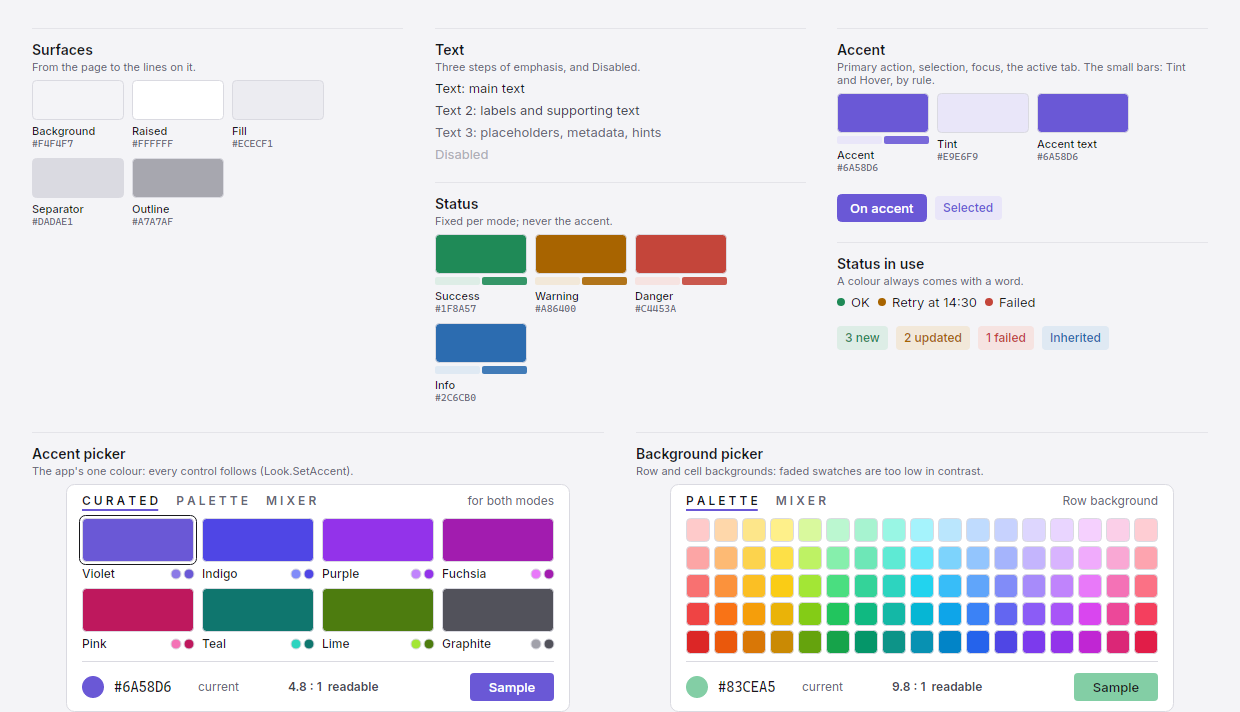
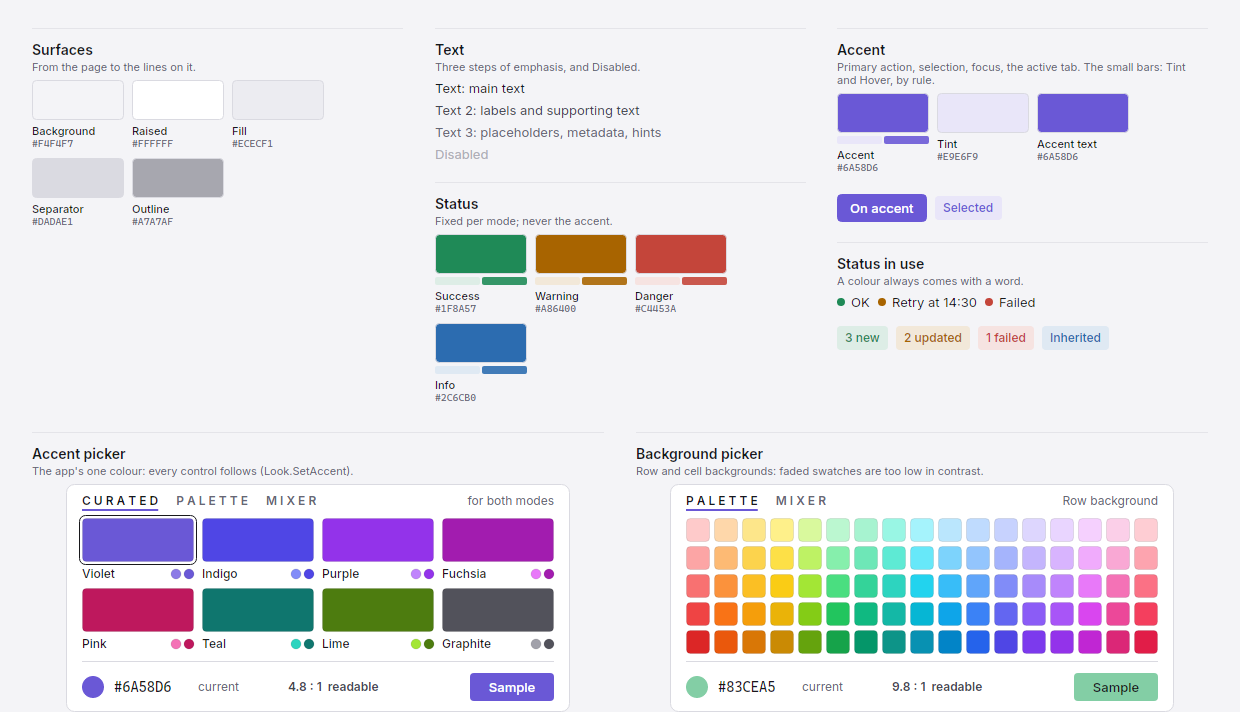
Colour swatches: a faint edge in Text at 10 % instead of the Separator line
The 1 px Separator line drew a grey ring around bright swatches in the accent and background pickers. A 10 % Text edge
keeps colours near the card visible and disappears on bright ones; the app's ColorGrid and the page's picker match.

Changed region(s): [[0.5516, 0.7416, 0.9194, 0.927]]

diff --git a/docs/shade.css b/docs/shade.css
@@ -160,23 +160,23 @@ textarea.s-field { height: 72px; padding: 8px; resize: vertical; font: 400 12px 
 .s-empty .s-btn { height: 32px; min-width: 140px; margin-top: 8px; background: var(--accent-tint); border-color: transparent; color: var(--accent-text); }
 
 /* ---- accent picker (ColorGrid: Curated, Palette, Mixer) ---------------------------------------------------------- */
-.s-picker { padding: 12px 16px 16px; border: 1px solid var(--separator); border-radius: 8px; background: var(--raised); max-width: 100%; }
+.s-picker { --edge: color-mix(in srgb, var(--text) 10%, transparent); padding: 12px 16px 16px; border: 1px solid var(--separator); border-radius: 8px; background: var(--raised); max-width: 100%; }
 .s-picker .s-tabs { margin-bottom: 12px; }
 .s-picker .s-tabs button { letter-spacing: 2px; text-transform: uppercase; font-size: 11px; font-weight: 600; }
 .s-picker [data-pane][hidden] { display: none; }
 .s-picker .curated { display: grid; grid-template-columns: repeat(4, minmax(0, 1fr)); gap: 10px 8px; }
 .s-picker .cur { padding: 0; border: 0; background: none; color: var(--text); font: 500 12px Inter, sans-serif; cursor: pointer; text-align: left; }
-.s-picker .cur i { display: block; height: 28px; border-radius: 4px; background: var(--d); margin-bottom: 4px; box-shadow: inset 0 0 0 1px var(--separator); }
+.s-picker .cur i { display: block; height: 28px; border-radius: 4px; background: var(--d); margin-bottom: 4px; box-shadow: inset 0 0 0 1px var(--edge); }
 [data-theme="light"] .s-picker .cur i { background: var(--l); }
-.s-picker .cur span { display: flex; align-items: center; gap: 3px; }
+.s-picker .cur span { display: flex; align-items: center; gap: 2px; }
 .s-picker .cur span b { flex: 1; font-weight: 500; overflow: hidden; text-overflow: ellipsis; white-space: nowrap; }
-.s-picker .cur span em { width: 9px; height: 9px; border-radius: 50%; border: 1px solid var(--separator); }
+.s-picker .cur span em { width: 7px; height: 7px; border-radius: 50%; box-shadow: inset 0 0 0 1px var(--edge); flex: none; }
 .s-picker .cur:hover i { outline: 1px solid var(--outline); outline-offset: 2px; }
 .s-picker .cur.current i { outline: 1px solid var(--text); outline-offset: 2px; }
 .s-picker .cur:focus-visible i, .s-picker .palette button:focus-visible { outline: 1px solid var(--accent); outline-offset: 2px; }
 .s-picker .cur:focus-visible, 
 .s-picker .palette { display: grid; grid-template-columns: repeat(17, minmax(0, 1fr)); gap: 3px; }
-.s-picker .palette button { aspect-ratio: 1; padding: 0; border: 0; border-radius: 4px; cursor: pointer; box-shadow: inset 0 0 0 1px var(--separator); }
+.s-picker .palette button { aspect-ratio: 1; padding: 0; border: 0; border-radius: 4px; cursor: pointer; box-shadow: inset 0 0 0 1px var(--edge); }
 .s-picker .palette button.faded { transform: scale(.7); opacity: .45; }
 .s-picker .palette button:hover { outline: 1px solid var(--outline); outline-offset: 1px; }
 .s-picker .palette button.current { outline: 1px solid var(--text); outline-offset: 1px; }

diff --git a/src/Shade/Controls/ColorGrid.cs b/src/Shade/Controls/ColorGrid.cs
@@ -185,17 +185,20 @@ namespace Shade
             Draw(g, "Sample", Ui(9.75, 500), OnColor(show), btn, TextAlignment.Center);  // a button's label
         }
 
+        /// <summary>A swatch's edge: Text at 10 %, so a colour near the card keeps its shape and a bright one gets no grey ring.</summary>
+        static Color Edge => Alpha(Look.Text, 0.1);
+
         /// <summary>Each curated accent in the current mode's value, its name, and two dots: its dark and light values.</summary>
         void PaintCurated(DrawingContext g)
         {
             for (int i = 0; i < Accents.Length; i++)
             {
                 var r = CuratedRect(i); var c = ModeValue(i);
-                FillRound(g, r, Radius, c, Look.Border);  // a swatch is a control: 4 px, a 1 px line so pale ones stay visible
+                FillRound(g, r, Radius, c, Edge);
                 if (i == hover || i == chosen) g.DrawRectangle(null, new Pen(B(i == chosen ? Look.Text : MenuEdge), 1), r.Inflate(2.5), Radius + 2, Radius + 2);
                 Draw(g, Accents[i].name, Ui(9, 500), Look.Text, new Rect(r.X, r.Bottom + 4, r.Width - 26, 16));
-                g.DrawEllipse(B(Accents[i].dark), new Pen(B(Look.Border), 1), new Point(r.Right - 18, r.Bottom + 12), 5, 5);
-                g.DrawEllipse(B(Accents[i].light), new Pen(B(Look.Border), 1), new Point(r.Right - 5, r.Bottom + 12), 5, 5);
+                g.DrawEllipse(B(Accents[i].dark), new Pen(B(Edge), 1), new Point(r.Right - 18, r.Bottom + 12), 5, 5);
+                g.DrawEllipse(B(Accents[i].light), new Pen(B(Edge), 1), new Point(r.Right - 5, r.Bottom + 12), 5, 5);
             }
         }
 
@@ -208,7 +211,7 @@ namespace Shade
                 bool ok = Readable(c), cur = HexOf(c) == HexOf(current);
                 var r = new Rect(x, y, Cell, Cell);
                 if (!ok) r = r.Deflate(4);
-                FillRound(g, r, Radius, ok ? c : Blend(Surface, c, 0.45), Look.Border);
+                FillRound(g, r, Radius, ok ? c : Blend(Surface, c, 0.45), Edge);
                 if (i == hover || cur)
                     g.DrawRectangle(null, new Pen(B(cur ? Look.Text : MenuEdge), 1), new Rect(x - 2.5, y - 2.5, Cell + 5, Cell + 5), Radius + 2, Radius + 2);
             }
